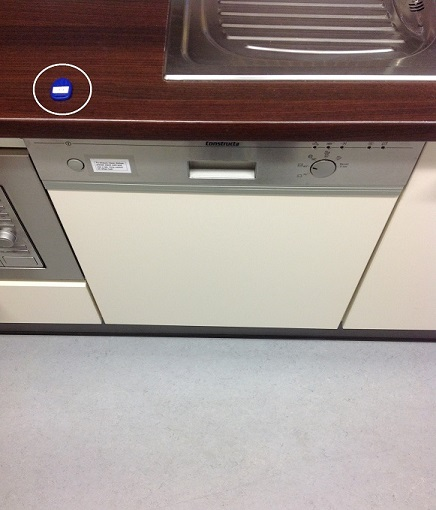
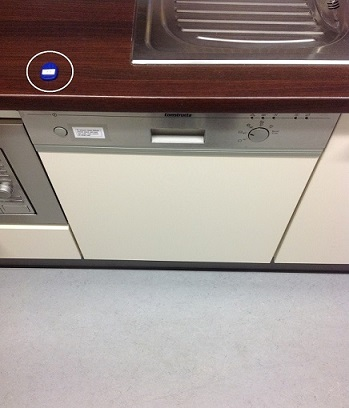
Resize some images

diff --git a/stylesheets/stylesheet.css b/stylesheets/stylesheet.css
@@ -34,6 +34,10 @@ a {
   background-color: rgba(255, 255, 255, 0.2);
   border-color: rgba(255, 255, 255, 0.3); }
 
+img {
+    text-align: center;
+}  
+  
 @media screen and (min-width: 64em) {
   .btn {
     padding: 0.75rem 1rem; } }
